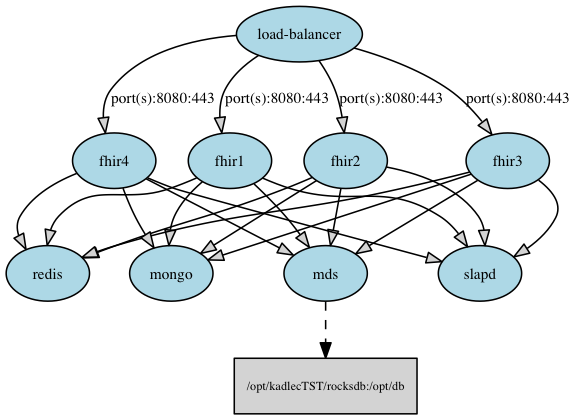
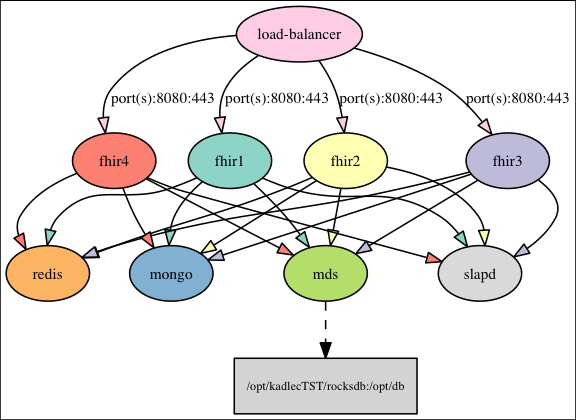
update colors, etc

diff --git a/cr8issue.py b/cr8issue.py
@@ -1,0 +1,121 @@
+#!/usr/bin/env python
+
+# create an issue in jira
+
+#
+# Usage below - assignee, description, summary are REQUIRED
+#
+# -a dan.farmer     who issue is assigned to
+#
+# -d 'foo bar'      description of issue
+# -D filename       read description from file
+#
+# -i issue-type     issue type - default is "Task"
+#
+# -l labels         label(s) for issue - default "devops"; comma sep'd
+#
+# -n days           task is due N days from now. Default = 1 day
+#
+# -p projectname    name of project - default is "DEVOPS"
+#
+# -P priority       priority - default is "Medium"
+#
+# -s summary        summary of issue
+#
+# -w watcher        somebody's watching you... cue men at work... default = "devops"
+#
+
+from jira               import JIRA
+from distutils.version  import StrictVersion
+from datetime           import datetime, timedelta
+from threading          import Lock, Thread
+
+import jira
+import optparse
+import sys
+import time
+
+#
+# requires a somewhat modern version of python jira lib (1+?)
+#
+
+# min version required
+min_jversion = '1.0.0'
+
+# check it out
+if StrictVersion(min_jversion) > StrictVersion(jira.__version__):
+    print "This requires at least version %s of the python jira library" % jversion
+
+# default time to close issue
+N_DAYS = 4
+
+#
+# aarrrghs
+#
+parser = optparse.OptionParser(usage='usage: %s [options] -a assignee -d description -s summary')
+
+parser.add_option('-a', '--assignee',    dest="assignee")
+parser.add_option('-d', '--description', dest="description")
+parser.add_option('-D', '--dfile',       dest="dfile")
+parser.add_option('-i', '--issue-type',  dest="issueType",      default="Task")
+parser.add_option('-l', '--labels',      dest="labels",         default="devops")
+parser.add_option('-n', '--days',        dest="days",           default=N_DAYS)
+parser.add_option('-p', '--project',     dest="project",        default="DEVOPS")
+parser.add_option('-P', '--priority',    dest="priority",       default="Medium")
+parser.add_option('-s', '--summary',     dest="summary")
+parser.add_option('-w', '--watcher',     dest="watcher",        default="devops")
+# parser.add_option('-w', '--watcher',     dest="watcher",        default="dan.farmer")
+
+
+# some defaults
+
+(opts, args) = parser.parse_args()
+
+# if -D, read file
+try:
+    with open(opts.dfile) as f:
+        # hack for multilines... need to put a "\\ " -> newline
+        opts.description = f.read().replace('\n','\\\\ ')
+except:
+    pass
+
+# print opts.description
+
+# mandatory options
+if not opts.assignee or not opts.description or not opts.summary:
+    print('usage: %prog [options] -a assignee -d description -s summary')
+    sys.exit(2)
+
+# some fluff to help
+LOCK = Lock()
+uri  = 'https://jira.multiscalehn.com'
+auth = ('jsvc', '')
+
+jira = JIRA(uri, basic_auth=auth)
+
+#
+# when is this due to be resolved?
+#
+now      = datetime.now()
+n_days   = timedelta(N_DAYS)
+due_date = datetime.strftime(now + n_days, '%Y-%m-%d')
+
+# to avoid ... issues
+with LOCK:
+    issue = jira.create_issue(project=opts.project,
+                              summary=opts.summary,
+                              description=opts.description,
+                              issuetype={'name':opts.issueType},
+                              assignee={'name':opts.assignee},
+                              priority={'name': opts.priority},
+                              labels=[opts.labels],
+                              duedate=due_date)
+
+# add watcher... I don't think it can be done in the above step, but...?
+jira.add_watcher(issue, opts.watcher)
+
+#print('issue %s created successfully' % jira.issue)
+print('issue created successfully')
+
+# import pdb
+# pdb.set_trace()

diff --git a/consume-compose.py b/consume-compose.py
@@ -15,11 +15,21 @@
 # it ignores lots of things that I don't understand or haven't used yet.
 #
 
+#
+# nodes are colored according to colorbrew patterns. They repeat after a 
+# dozen nodes.
+#
+
 # requires pygraphviz & docker-compose python libs
+
+#
+# Possible values - LR, RL, BT, TB... for left->right, bottom->top, etc.
+DIRECTION="TB"
 
 import sys
 import yaml
 import pygraphviz as pgv
+
 from collections import defaultdict
 # seemingly undocumented magic that might prove useful
 from compose.config.config import ConfigFile
@@ -45,7 +55,8 @@ compose       = defaultdict(lambda : defaultdict(list))
 compose_items = ["links", "external_links", "volumes", "ports"]
 
 # graph object
-dvis          = pgv.AGraph(strict=False,directed=True)
+dvis          = pgv.AGraph(strict=False,directed=True,rankdir=DIRECTION,colorscheme='set312')
+
 
 # print ConfigFile.get_service_dicts(dcompose)
 
@@ -61,15 +72,27 @@ try:
 except Exception as e:
     pass
 
+
+node_color = -1
+
+# only twelve allowed! ;)   From color brewer
+colors = ["#8dd3c7", "#ffffb3", "#bebada", "#fb8072", "#80b1d3", "#fdb462", "#b3de69", "#fccde5", "#d9d9d9", "#bc80bd", "#ccebc5", "#ffed6f"]
+
+
 # for container, config in dcompose.config.iteritems():
 for container, config in containers.iteritems():
+
+    node_color = node_color + 1
+    if node_color == 12:
+        node_color = 1
+
+    ports = ''
 
     # print config.keys()
 
     # first add any nodes
-    dvis.add_node(container, style="filled", fillcolor="lightblue", fontsize="10")
+    dvis.add_node(container, style="filled", fillcolor=colors[node_color], fontsize="10")
 
-    ports = ''
     # use this to add to links or other connectors if applicable
     if 'ports' in config.keys():
         if type(config['ports']) is list:
@@ -82,9 +105,9 @@ for container, config in containers.iteritems():
         for link in config['links']:
             link = link.split(':')[0]
             if ports:
-                dvis.add_edge(container, link, label=ports, style="filled", fontsize="10", fillcolor="lightgray")
+                dvis.add_edge(container, link, label=ports, style="filled", fontsize="10", fillcolor=colors[node_color])
             else:
-                dvis.add_edge(container, link, style="filled", fontsize="10", fillcolor="lightgray")
+                dvis.add_edge(container, link, style="filled", fontsize="10", fillcolor=colors[node_color])
 
     if 'external_links' in config.keys():
         for link in config['external_links']:
@@ -95,8 +118,8 @@ for container, config in containers.iteritems():
 
     # if just have ports and no links
     if ports and not 'links' in config.keys() and not 'external_links' in config.keys():
-        dvis.add_node('external', fillcolor="red", style="filled")
-        dvis.add_edge(container, 'external', label=ports, style="filled", fontsize="8", fillcolor="red")
+        dvis.add_node('EXTERNAL', fillcolor="red", style="filled")
+        dvis.add_edge(container, 'EXTERNAL', label=ports, style="filled", fontsize="8", fillcolor="red")
 
 
     # goes... to somewhere!
@@ -123,8 +146,12 @@ print """
 //
 //     dot -Tpng -o %s.png < %s.dot
 //
+//  Larger graph with:
+//
+//     dot -Tpng -Gsize=8,8\! -o %s.png < %s.dot
+//
 
-""" % (filebase, filebase)
+""" % (filebase, filebase, filebase, filebase)
 
 print dvis.string()
 

diff --git a/README.md b/README.md
@@ -49,11 +49,12 @@ are possible as well, just change the dot command.)
 
 Given the included compose file, the output looks like -
 
-![visualizing compose](https://github.com/zenfish/docker-scripts/raw/master/compose.png)
+![visualizing compose](compose.png)
 
-Containers are circular, volumes are boxes, and networks are red
-double-lined circles ('cuz I've never actually seen one in action,
-but they're probably important ;))
+Containers are circular, volumes are boxes, external things (e.g.
+ports open to the outside) are red, and networks are double-lined
+circles ('cuz I've never actually seen one in action, but they're
+probably important ;))
 
 This requires the "dot" command to actually create any graphical
 output as well as the pygraphviz and docker compose libs (e.g. "pip
